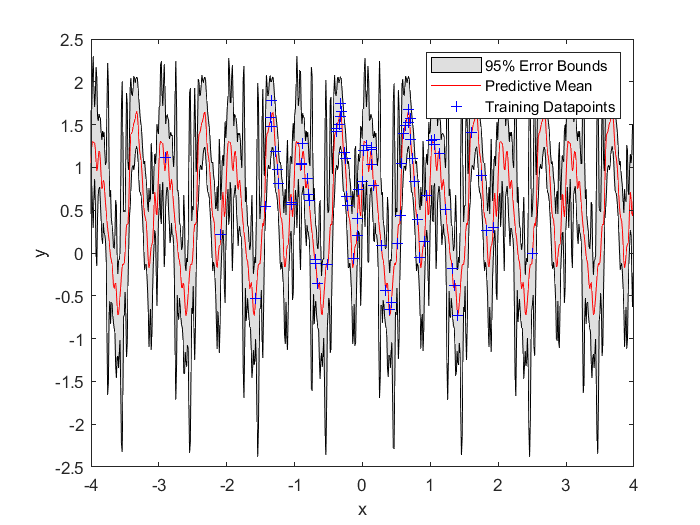
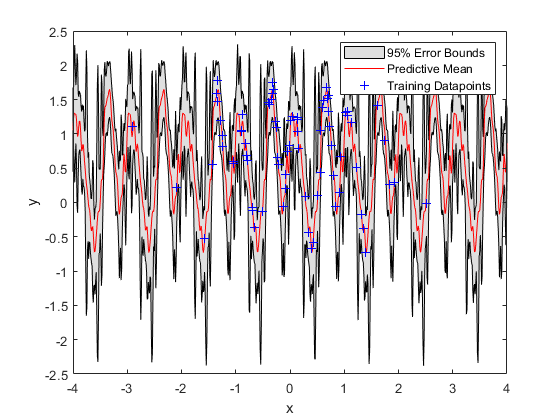
Update

diff --git a/1/taskB.m b/1/taskB.m
@@ -13,7 +13,7 @@ cov_func = @covSEiso; % squared exponential covariance function
 lik_func = @likGauss; % gaussian likelihood func
 
 %initial hyperparams
-N = 250; % number of hyperparams to test
+N = 20; % number of hyperparams to test
 cov_vals = linspace(-5, 5, N); % range of values for covariance hyperparams
 lik = 0; % initial likelihood - log noise st dev
 grid = zeros(N, N);
@@ -21,9 +21,9 @@ grid = zeros(N, N);
 for i = 1:N
     for j = 1:N
         hyp = struct('mean', [], 'cov', [cov_vals(i), 0], 'lik', cov_vals(j)); % hyperparameter struct
-        
+        hyp_opt = minimize(hyp, @gp, -100, @infGaussLik, mean_func, cov_func, lik_func, x, y);
         % obtain negative log margianl likelihood (nlZ)
-        [nlZ, dlnZ] = gp(hyp, @infGaussLik, mean_func, cov_func, lik_func, x, y);
+        [nlZ, ~] = gp(hyp_opt, @infGaussLik, mean_func, cov_func, lik_func, x, y);
         grid(j,i) = nlZ;
     end
 end
@@ -34,3 +34,4 @@ c = colorbar;
 c.Label.String = 'Negative Log Marginal Likelihood';
 xlabel('Log Length-Scale')
 ylabel('Log Noise St Dev')
+xticks(linspace(-5, 5, 11))

diff --git a/1/taskC.m b/1/taskC.m
@@ -11,13 +11,16 @@ cov_func = @covPeriodic; % periodic covariance function
 lik_func = @likGauss; % gaussian likelihood func
 
 %initial hyperparams
-cov = [0, 0, 16]; % initial covariance: 1) log length-scale, 2) log period, 3) log signal st-dev
+cov = [0, 0, 0]; % initial covariance: 1) log length-scale, 2) log period, 3) log signal st-dev
 lik = 0; % initial likelihood - log noise st dev
 hyp = struct('mean', [], 'cov', cov, 'lik', lik); % hyperparameter struct
 
 % optimised hyperparams by minimising negative log likelihood
+[nlZ, ~] = gp(hyp, @infGaussLik, mean_func, cov_func, lik_func, x, y);
 hyp_opt = minimize(hyp, @gp, -100, @infGaussLik, mean_func, cov_func, lik_func, x, y);
-
+[nlZ2, ~] = gp(hyp_opt, @infGaussLik, mean_func, cov_func, lik_func, x, y);
+disp(nlZ)
+disp(nlZ2)
 disp(hyp_opt)
 
 xs = linspace(-4, 4, 750)'; % test data in range -3.5 to 3.5

diff --git a/1/taskA.m b/1/taskA.m
@@ -12,13 +12,15 @@ cov_func = @covSEiso; % squared exponential covariance function
 lik_func = @likGauss; % gaussian likelihood func
 
 %initial hyperparams
-cov = [-1, 0]; % initial covariance: 1) log length-scale, 2) log signal std-dev
+cov = [-1, -10]; % initial covariance: 1) log length-scale, 2) log signal std-dev
 lik = 0; % initial likelihood - log noise st dev
 hyp = struct('mean', [], 'cov', cov, 'lik', lik); % hyperparameter struct
-
+[nlZ, ~] = gp(hyp, @infGaussLik, mean_func, cov_func, lik_func, x, y);
 % optimised hyperparams by minimising negative log likelihood
 hyp_opt = minimize(hyp, @gp, -100, @infGaussLik, mean_func, cov_func, lik_func, x, y);
-
+[nlZ2, ~] = gp(hyp_opt, @infGaussLik, mean_func, cov_func, lik_func, x, y);
+disp(nlZ)
+disp(nlZ2)
 disp(hyp_opt)
 
 
